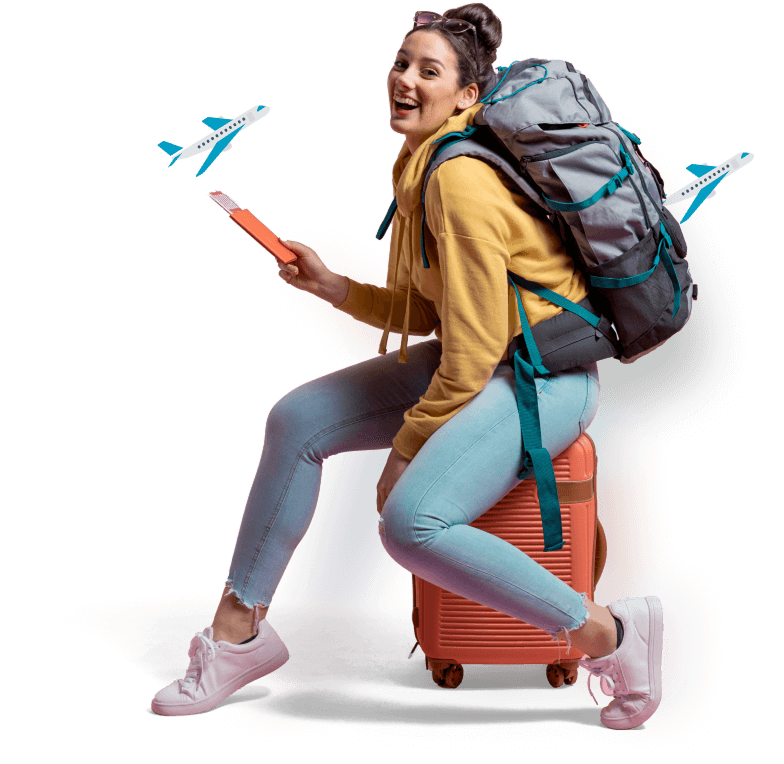
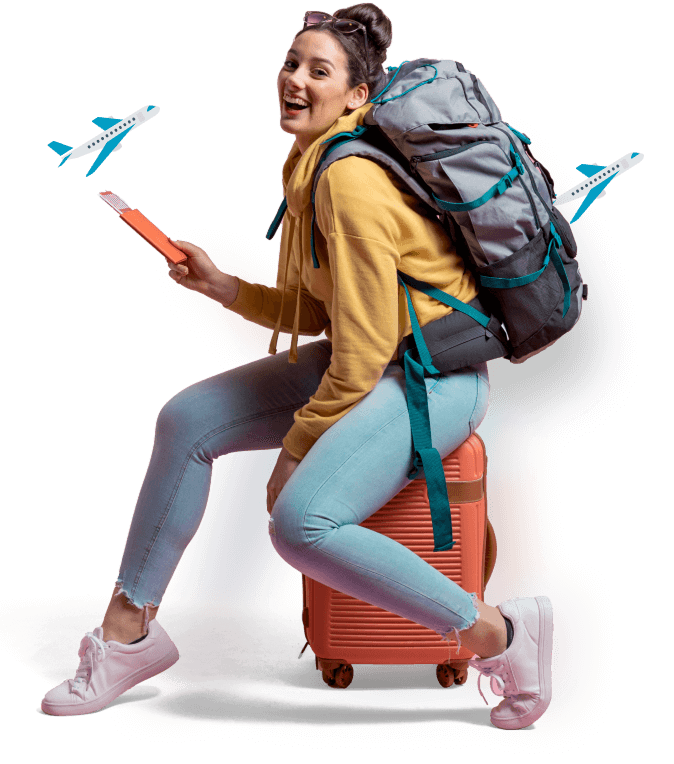
Add homepage: hero, features, and destinations sections
Implement reusable Button, FeatureItem, and ImageCard components.
Build and style initial homepage sections using Tailwind.
Add and refine media assets and icons for consistent visual design.

diff --git a/src/pages/index/+Page.jsx b/src/pages/index/+Page.jsx
@@ -1,9 +1,93 @@
+import './styles.css';
+
+import { Button } from '../../components/atoms/Button';
+import { destinations, features } from './data';
+import PlayIcon from '../../assets/icons/play.svg?react';
+import underline from '../../assets/underline.png';
+import { FeatureItem } from '../../components/molecules/FeatureItem';
+import { ImageCard } from '../../components/molecules/ImageCard';
+
 export { Page };
 
 function Page() {
   return (
     <>
-      <h1>Travel, enjoy and live a new and full life</h1>
+      <section className="grid xl:grid-cols-2">
+        <div className="pt-8 xl:pt-28 xl:pb-20 max-w-[75ch]">
+          <p className="font-poppins uppercase font-bold text-sm xl:text-xl text-light-red">
+            Top Travel Destinations Worldwide
+          </p>
+          <h1 className="font-serif font-bold mt-4 mb-6 text-5xl xl:text-[5.25rem] leading-none text-black dark:text-white">
+            Travel,{' '}
+            <span className="relative inline-block">
+              enjoy
+              <img
+                src={underline}
+                aria-hidden="true"
+                height={400}
+                className="hidden xl:block absolute left-0 bottom-0 scale-150 origin-[30%] -z-1"
+              />
+            </span>{' '}
+            and live a new and full life
+          </h1>
+          <p className="font-poppins pr-4 mb-6">
+            Lorem ipsum, dolor sit amet consectetur adipisicing elit. Culpa, quis ut, sunt impedit
+            dolore molestiae commodi eos rem, a tempora quaerat sapiente! Est ratione quae fuga
+            deleniti.
+          </p>
+          <div className="flex flex-wrap gap-11">
+            <Button className="bg-[#F1A501] text-white w-full sm:w-fit transition-colors hover:bg-light-red">
+              Get started
+            </Button>
+            <Button className="flex gap-4 items-center p-0! w-fit group">
+              <span className="text-white grid place-content-center bg-light-red size-12 rounded-full shadow-2xl shadow-light-red">
+                <PlayIcon
+                  aria-hidden="true"
+                  className="transition-transform group-hover:scale-125"
+                />
+              </span>
+              Play demo
+            </Button>
+          </div>
+        </div>
+        <div className="hidden -z-10 xl:block bg-[url(/src/assets/blob.webp)] bg-contain bg-no-repeat absolute top-0 right-0 left-1/2 h-[724px]"></div>
+        <div className="hidden xl:block bg-[url(/src/assets/traveller.png)] bg-contain bg-no-repeat bg-center"></div>
+      </section>
+      <section className="relative">
+        <p className="subtitle text-center">Our services</p>
+        <h2 className="title text-center">Exceptional Services for Every Traveler</h2>
+        <div className="grid grid-cols-[repeat(auto-fill,minmax(min(100%,252px),1fr))] gap-4 xl:gap-10">
+          {features.map((feature) => (
+            <FeatureItem key={feature.title} {...feature} />
+          ))}
+        </div>
+        <div className="absolute right-0 top-0 size-36 -z-10 hidden 2xl:block bg-[url(/src/assets/decoration-01.svg)] bg-no-repeat bg-contain -translate-y-6 translate-x-full"></div>
+      </section>
+      <section>
+        <p className="subtitle text-center">Our most popular trips</p>
+        <h2 className="title text-center">Top Destinations</h2>
+        <div className="relative grid grid-cols-[repeat(auto-fill,315px)] place-content-center gap-y-4 gap-x-10">
+          {destinations.map((destination) => (
+            <ImageCard key={destination.title} {...destination} />
+          ))}
+          <div className="hidden xl:block absolute -right-2 bottom-8 -z-10 w-24 h-64 bg-[url(/src/assets/decoration-02.svg)] bg-no-repeat bg-contain"></div>
+        </div>
+      </section>
+      <section>
+        <p className="subtitle">Fast and easy</p>
+        <h2 className="title">Book Your Next Trip in 3 Easy Steps</h2>
+      </section>
+      <section>
+        <p className="subtitle">Testimonials</p>
+        <h2 className="title">What people say about us</h2>
+      </section>
+      <div></div>
+      <section>
+        <p className="subtitle">
+          Join our newsletter for updates, travel insights, and exclusive Jadoo offers.
+        </p>
+        <form action=""></form>
+      </section>
     </>
   );
 }

diff --git a/src/pages/index/data.js b/src/pages/index/data.js
@@ -1,0 +1,44 @@
+export const features = [
+  {
+    icon: '/src/assets/weather-antenna.svg',
+    title: 'Calculated Weather',
+    description: 'Lorem ipsum dolor sit amet, consectetur adipiscing elit.',
+  },
+  {
+    icon: '/src/assets/flights.svg',
+    title: 'Best Flights',
+    description: 'Lorem ipsum dolor sit amet, consectetur adipiscing elit.',
+    highlighted: true,
+  },
+  {
+    icon: '/src/assets/events.svg',
+    title: 'Local Events',
+    description: 'Lorem ipsum dolor sit amet, consectetur adipiscing elit.',
+  },
+  {
+    icon: '/src/assets/customization.svg',
+    title: 'Customization',
+    description: 'Lorem ipsum dolor sit amet, consectetur adipiscing elit.',
+  },
+];
+
+export const destinations = [
+  {
+    image: '/src/assets/rome.jpg',
+    title: 'Rome, Italy',
+    price: '$5.42k',
+    description: '10-day trip',
+  },
+  {
+    image: '/src/assets/london.jpg',
+    title: 'London, UK',
+    price: '$4.2k',
+    description: '12-day trip',
+  },
+  {
+    image: '/src/assets/europe.jpg',
+    title: 'Europe Tour',
+    price: '$15k',
+    description: '28-day trip',
+  },
+];

diff --git a/src/components/molecules/FeatureItem.jsx b/src/components/molecules/FeatureItem.jsx
@@ -1,0 +1,21 @@
+export function FeatureItem({ icon, title, description, highlighted = false }) {
+  return (
+    <div
+      className={`relative flex flex-col gap-4 items-center pt-10 rounded-4xl bg-white dark:bg-black ${
+        highlighted ? 'shadow-lg pb-10 px-10' : 'px-8'
+      }`}
+    >
+      <img
+        src={icon}
+        alt=""
+        aria-hidden="true"
+        className={`size-20 ${highlighted ? 'scale-150' : ''}`}
+      />
+      <h3 className="text-xl font-semibold text-black dark:text-white">{title}</h3>
+      <p className="text-center">{description}</p>
+      {highlighted && (
+        <div className="hidden xl:block absolute bottom-0 left-0 -z-10 size-24 bg-light-red rounded-t-4xl rounded-br-xl translate-y-4/12 -translate-x-4/12"></div>
+      )}
+    </div>
+  );
+}

diff --git a/src/components/molecules/ImageCard.jsx b/src/components/molecules/ImageCard.jsx
@@ -1,0 +1,20 @@
+import NavigationIcon from '../../assets/icons/navigation.svg?react';
+
+export function ImageCard({ image, title, price, description }) {
+  return (
+    <div className="rounded-xl shadow-lg bg-white dark:bg-black">
+      <img src={image} alt={title} className="w-full h-80 object-cover rounded-t-xl object-top" />
+
+      <div className="pt-6 pb-8 px-5">
+        <div className="flex justify-between font-medium text-lg">
+          <h3>{title}</h3>
+          <span>{price}</span>
+        </div>
+        <p className="pt-2">
+          <NavigationIcon aria-hidden="true" className="text-black dark:text-white inline" />
+          <span className="pl-3.5">{description}</span>
+        </p>
+      </div>
+    </div>
+  );
+}

diff --git a/src/components/atoms/Button.jsx b/src/components/atoms/Button.jsx
@@ -1,0 +1,9 @@
+export function Button({ children, className, ...props }) {
+  const styles =
+    'cursor-pointer min-w-fit text-lg font-medium rounded-xl py-4 px-6' + ' ' + className;
+  return (
+    <button className={styles} {...props}>
+      {children}
+    </button>
+  );
+}

diff --git a/src/pages/index/styles.css b/src/pages/index/styles.css
@@ -1,0 +1,9 @@
+@reference '../global.css';
+
+.subtitle {
+  @apply font-poppins uppercase font-semibold text-sm xl:text-lg;
+}
+
+.title {
+  @apply font-serif text-3xl xl:text-5xl font-bold mt-2 mb-8 xl:mb-16 text-black dark:text-white;
+}
